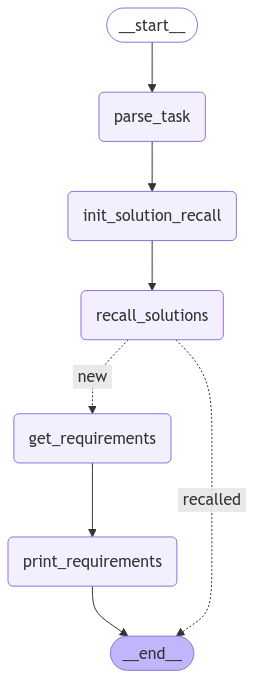
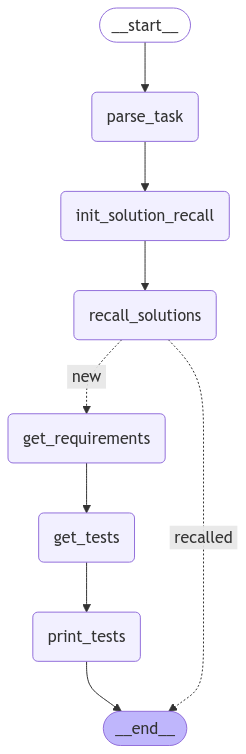
Add test node

diff --git a/tool/solver/tests.py b/tool/solver/tests.py
@@ -1,0 +1,41 @@
+from langchain_core.messages import SystemMessage, HumanMessage
+from langchain_openai import ChatOpenAI
+
+from tool.models import TaskToSolve, TaskWithTests, State
+
+
+SOLUTION_REQUIREMENT_PROMPT = """
+You are a helpful assistant, that helps me to verify solution to a given task. I will give you the task, a context and list of requirements on the solution.
+
+I will give you the following information:
+
+Task: ...
+Context: ...
+Requirements: ...
+
+Please, follow these guidelines when writing the tests:
+    1) Each test correspond to a single requirement.
+    2) There can be multiple distinct tests for a single requirement.
+    3) Each test must be independent from the others.
+    4) Each test must be deterministic.
+
+Please, respond only with the tests formatted as a plain text, one after another. Do not write anything else.
+"""
+
+_model = ChatOpenAI(model="gpt-4o-mini")
+
+
+def get_tests(task_to_solve: TaskToSolve) -> TaskWithTests:
+    task_str = f"Task: {task_to_solve.task}\nContext: {task_to_solve.context}\nRequirements: {task_to_solve.requirements}"
+    messages = [SystemMessage(content=SOLUTION_REQUIREMENT_PROMPT), HumanMessage(content=task_str)]
+    result = _model.invoke(messages)
+    return TaskWithTests(
+        task=task_to_solve.task,
+        context=task_to_solve.context,
+        requirements=task_to_solve.requirements,
+        tests=str(result.content),
+    )
+
+
+def print_tests(task: TaskWithTests) -> State:
+    return State(messages=[SystemMessage(content=str(task.model_dump_json(indent=4)))])

diff --git a/tool/__main__.py b/tool/__main__.py
@@ -8,7 +8,8 @@ from langchain_core.messages import HumanMessage
 from tool.models import State, task_with_empty_recall
 from tool.task_extractor import parse_task
 from tool.recaller import recall, recalled_or_new
-from tool.requirements import get_requirements, print_requirements
+from tool.solver.requirements import get_requirements
+from tool.solver.tests import get_tests, print_tests
 
 
 dotenv.load_dotenv()
@@ -19,7 +20,8 @@ builder.add_node("parse_task", parse_task)
 builder.add_node("init_solution_recall", task_with_empty_recall)
 builder.add_node("recall_solutions", recall)
 builder.add_node("get_requirements", get_requirements)
-builder.add_node("print_requirements", print_requirements)
+builder.add_node("get_tests", get_tests)
+builder.add_node("print_tests", print_tests)
 
 builder.add_edge(START, "parse_task")
 builder.add_edge("parse_task", "init_solution_recall")
@@ -27,8 +29,9 @@ builder.add_edge("init_solution_recall", "recall_solutions")
 builder.add_conditional_edges(
     "recall_solutions", recalled_or_new, {"new": "get_requirements", "recalled": END}
 )
-builder.add_edge("get_requirements", "print_requirements")
-builder.add_edge("print_requirements", END)
+builder.add_edge("get_requirements", "get_tests")
+builder.add_edge("get_tests", "print_tests")
+builder.add_edge("print_tests", END)
 graph = builder.compile()
 
 

diff --git a/tool/solver/requirements.py b/tool/solver/requirements.py
@@ -1,7 +1,7 @@
 from langchain_core.messages import SystemMessage, HumanMessage
 from langchain_openai import ChatOpenAI
 
-from models import TaskToSolve, TaskWithSolutionRecall, State
+from tool.models import TaskToSolve, TaskWithSolutionRecall, State
 
 
 SOLUTION_REQUIREMENT_PROMPT = """
@@ -29,7 +29,3 @@ def get_requirements(task_with_recall: TaskWithSolutionRecall) -> TaskToSolve:
     return TaskToSolve(
         task=task_with_recall.task, context=task_with_recall.context, requirements=result.content
     )
-
-
-def print_requirements(task: TaskToSolve) -> State:
-    return State(messages=[SystemMessage(content=task.requirements)])

diff --git a/tool/models.py b/tool/models.py
@@ -27,5 +27,12 @@ class TaskToSolve(pydantic.BaseModel):
     requirements: str
 
 
+class TaskWithTests(pydantic.BaseModel):
+    task: str
+    context: str
+    requirements: str
+    tests: str
+
+
 def task_with_empty_recall(task: TaskPlain) -> TaskWithSolutionRecall:
     return TaskWithSolutionRecall(task=task.task, context=task.context, solution_recall="")
